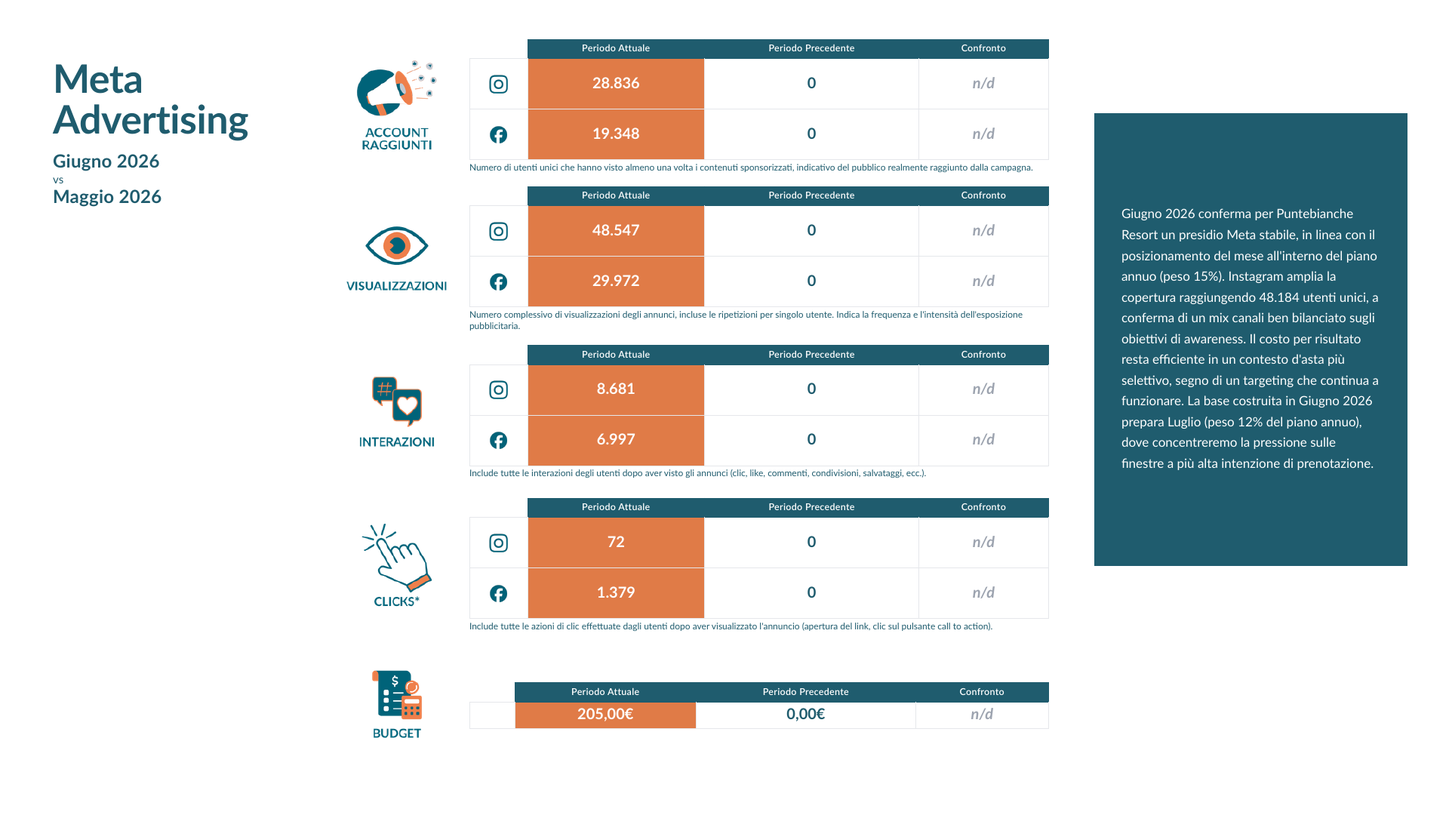
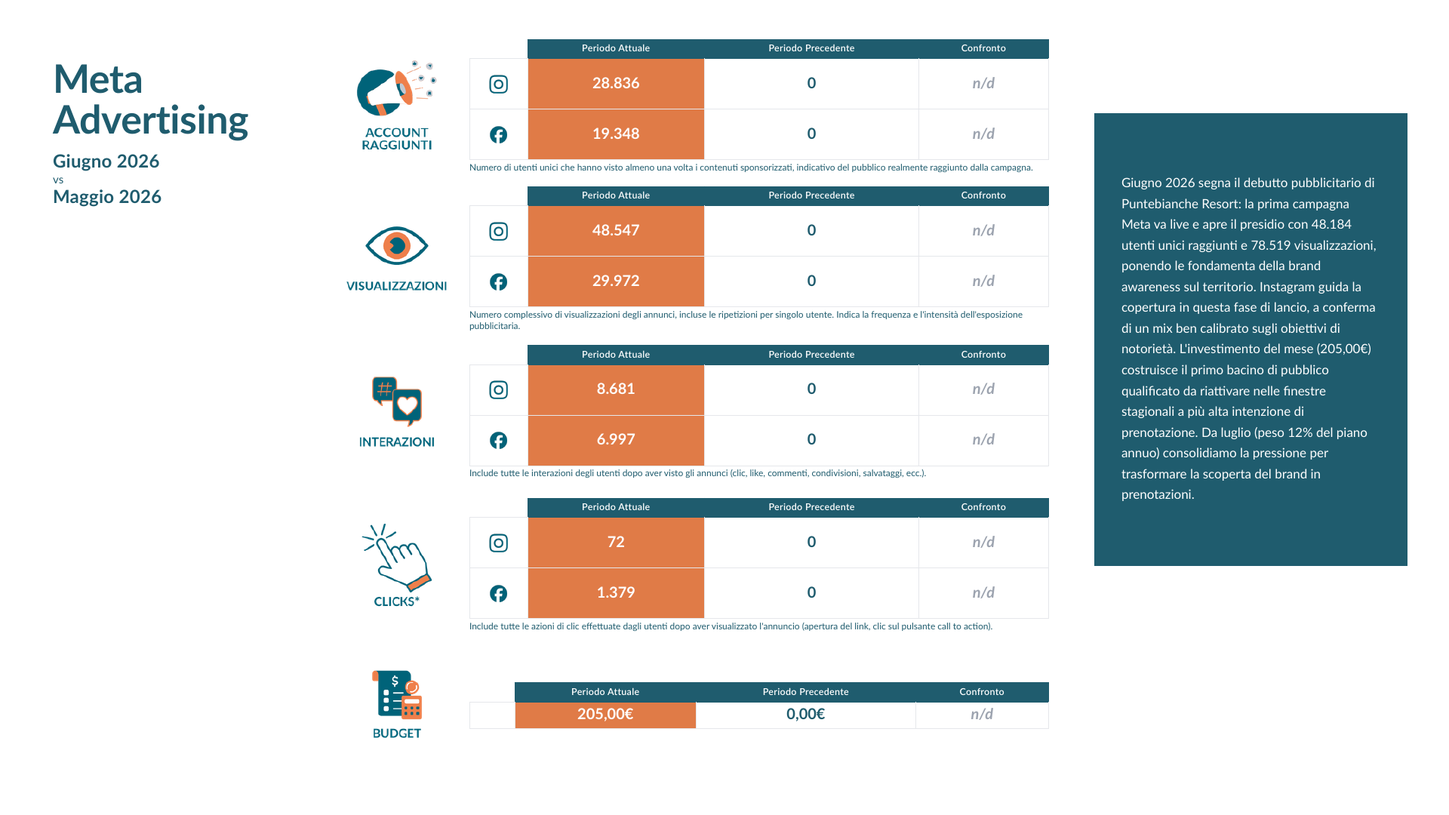
Report Giugno 2026 — pubblicazione automatica

Changed region(s): [[0.75, 0.2139, 0.9688, 0.6111]]

diff --git a/giugno-2026.html b/giugno-2026.html
@@ -379,7 +379,7 @@ table.budget-plan-table tr.total td { background: var(--bg-soft); font-weight: 7
 <script>
 const REPORT_YEAR = 2026;
 const REPORT_MONTH = 6;
-const GENERATED_AT = "2026-07-02 17:51 UTC";
+const GENERATED_AT = "2026-07-02 18:00 UTC";
 const DATA = {"target_period":"2026-06","meta_by_account":{"current":{"1201395876543423":{"facebook":{"reach":596174,"impressions":787153,"actions_page_engagement":467979,"clicks":6810,"spend":657.6882},"instagram":{"reach":60412,"impressions":70328,"actions_page_engagement":43495,"clicks":215,"spend":65.4518}},"911357333863123":{"facebook":{"reach":347030,"impressions":503134,"actions_page_engagement":232820,"clicks":3483,"spend":482.7},"instagram":{"reach":109296,"impressions":123309,"actions_page_engagement":53358,"clicks":164,"spend":117.76}},"821188209852436":{"facebook":{"reach":149150,"impressions":228551,"actions_page_engagement":110030,"clicks":3618,"spend":458.1456},"instagram":{"reach":141689,"impressions":229009,"actions_page_engagement":31775,"clicks":427,"spend":353.8344}},"1489903155429629":{"facebook":{"reach":196566,"impressions":233657,"actions_page_engagement":10693,"clicks":2866,"spend":426.0944},"instagram":{"reach":18821,"impressions":27674,"actions_page_engagement":2609,"clicks":29,"spend":172.0056}},"1432341844596179":{"facebook":{"reach":151332,"impressions":231359,"actions_page_engagement":92785,"clicks":2286,"spend":323.42},"instagram":{"reach":23531,"impressions":28251,"actions_page_engagement":14120,"clicks":98,"spend":44.55}},"1312718426033158":{"facebook":{"reach":246948,"impressions":398464,"actions_page_engagement":218773,"clicks":10736,"spend":350.8698},"instagram":{"reach":3877,"impressions":5215,"actions_page_engagement":3073,"clicks":15,"spend":6.7802}},"1353024533007038":{"facebook":{"reach":345413,"impressions":548199,"actions_page_engagement":273510,"clicks":10825,"spend":680.29},"instagram":{"reach":21193,"impressions":27033,"actions_page_engagement":15101,"clicks":105,"spend":41.71}},"1528485957725509":{"facebook":{"reach":439883,"impressions":784162,"actions_page_engagement":438731,"clicks":8613,"spend":886.5672},"instagram":{"reach":34032,"impressions":56279,"actions_page_engagement":13790,"clicks":85,"spend":143.2128}},"1372615496521110":{"facebook":{"reach":244467,"impressions":344927,"actions_page_engagement":176033,"clicks":5900,"spend":379.0672},"instagram":{"reach":123919,"impressions":157203,"actions_page_engagement":74183,"clicks":123,"spend":119.6128}},"30233607946222961":{"facebook":{"reach":1156208,"impressions":1716813,"actions_page_engagement":45997,"clicks":3727,"spend":296.49},"instagram":{"reach":566404,"impressions":895211,"actions_page_engagement":12555,"clicks":349,"spend":152.35}},"687349689221880":{"facebook":{"reach":211023,"impressions":354723,"actions_page_engagement":87054,"clicks":25336,"spend":816.2869},"instagram":{"reach":14276,"impressions":18761,"actions_page_engagement":1664,"clicks":305,"spend":54.5231}},"217115315497718":{"facebook":{"reach":205654,"impressions":332247,"actions_page_engagement":4337,"clicks":509,"spend":196.8056},"instagram":{"reach":116724,"impressions":252285,"actions_page_engagement":1540,"clicks":67,"spend":149.6242}},"752450855779035":{"facebook":{"reach":191022,"impressions":257721,"actions_page_engagement":120521,"clicks":4388,"spend":926.7978},"instagram":{"reach":38474,"impressions":47766,"actions_page_engagement":11953,"clicks":305,"spend":265.5622}},"1849759899186169":{"facebook":{"reach":183591,"impressions":293374,"actions_page_engagement":30390,"clicks":8045,"spend":713.8591},"instagram":{"reach":57252,"impressions":92719,"actions_page_engagement":13108,"clicks":130,"spend":407.5909}}},"prev_yoy":{"911357333863123":{"facebook":{"reach":118338,"impressions":260537,"actions_page_engagement":28122,"clicks":13473,"spend":247.7682},"instagram":{"reach":82232,"impressions":211875,"actions_page_engagement":48583,"clicks":649,"spend":220.3618}},"1432341844596179":{"facebook":{"reach":81727,"impressions":157724,"actions_page_engagement":27381,"clicks":7511,"spend":230.9096},"instagram":{"reach":9796,"impressions":13630,"actions_page_engagement":2648,"clicks":46,"spend":30.2704}},"821188209852436":{"facebook":{"reach":233281,"impressions":610051,"actions_page_engagement":122785,"clicks":15852,"spend":907.486},"instagram":{"reach":377705,"impressions":1008869,"actions_page_engagement":310387,"clicks":1059,"spend":900.404}},"1528485957725509":{"facebook":{"reach":76048,"impressions":271605,"actions_page_engagement":11079,"clicks":15787,"spend":442.2129},"instagram":{"reach":228401,"impressions":527060,"actions_page_engagement":111552,"clicks":421,"spend":498.1471}},"1312718426033158":{"facebook":{"reach":94682,"impressions":324350,"actions_page_engagement":44834,"clicks":4481,"spend":449.4413},"instagram":{"reach":192180,"impressions":408062,"actions_page_engagement":123661,"clicks":608,"spend":526.3287}},"1372615496521110":{"facebook":{"reach":194069,"impressions":338764,"actions_page_engagement":40517,"clicks":471,"spend":59.3378},"instagram":{"reach":173971,"impressions":320008,"actions_page_engagement":15448,"clicks":353,"spend":77.6602}},"687349689221880":{"facebook":{"reach":187812,"impressions":410585,"actions_page_engagement":210069,"clicks":16397,"spend":681.1515},"instagram":{"reach":291127,"impressions":720338,"actions_page_engagement":202005,"clicks":1215,"spend":832.6785}},"1201395876543423":{"facebook":{"reach":223633,"impressions":728348,"actions_page_engagement":18874,"clicks":15023,"spend":315.005},"instagram":{"reach":9281,"impressions":14469,"actions_page_engagement":329,"clicks":242,"spend":34.745}},"752450855779035":{"instagram":{"reach":9581,"impressions":17305,"actions_page_engagement":1377,"clicks":1122,"spend":59.69},"facebook":{"reach":0,"impressions":0,"actions_page_engagement":0,"clicks":0,"spend":0}}},"prev_mom":{"1432341844596179":{"facebook":{"reach":294016,"impressions":407870,"actions_page_engagement":201655,"clicks":2616,"spend":357.4907},"instagram":{"reach":26699,"impressions":29015,"actions_page_engagement":16868,"clicks":51,"spend":28.5293}},"217115315497718":{"facebook":{"reach":8431,"impressions":10647,"actions_page_engagement":610,"clicks":393,"spend":26.89},"instagram":{"reach":5589,"impressions":6674,"actions_page_engagement":417,"clicks":257,"spend":25.69}},"1528485957725509":{"facebook":{"reach":448903,"impressions":827800,"actions_page_engagement":502747,"clicks":12716,"spend":1075.4098},"instagram":{"reach":4204,"impressions":5562,"actions_page_engagement":3489,"clicks":12,"spend":7.8002}},"911357333863123":{"facebook":{"reach":255044,"impressions":357685,"actions_page_engagement":155464,"clicks":1985,"spend":424.7196},"instagram":{"reach":69899,"impressions":80181,"actions_page_engagement":40783,"clicks":105,"spend":100.9004}},"30233607946222961":{"facebook":{"reach":771717,"impressions":1035334,"actions_page_engagement":48820,"clicks":1725,"spend":167.5764},"instagram":{"reach":878324,"impressions":1600190,"actions_page_engagement":45585,"clicks":851,"spend":258.8036}},"687349689221880":{"facebook":{"reach":225398,"impressions":381192,"actions_page_engagement":96028,"clicks":34594,"spend":846.4271},"instagram":{"reach":17335,"impressions":24772,"actions_page_engagement":3436,"clicks":294,"spend":90.6229}},"821188209852436":{"facebook":{"reach":210530,"impressions":403566,"actions_page_engagement":156340,"clicks":7928,"spend":593.5404},"instagram":{"reach":215265,"impressions":421738,"actions_page_engagement":65250,"clicks":1001,"spend":647.1396}},"1312718426033158":{"facebook":{"reach":244951,"impressions":422231,"actions_page_engagement":227377,"clicks":8895,"spend":367.0803},"instagram":{"reach":2707,"impressions":3414,"actions_page_engagement":1778,"clicks":20,"spend":5.5697}},"1201395876543423":{"facebook":{"reach":909562,"impressions":1425823,"actions_page_engagement":876905,"clicks":11854,"spend":1154.789},"instagram":{"reach":26937,"impressions":34782,"actions_page_engagement":22109,"clicks":93,"spend":28.321}},"1372615496521110":{"facebook":{"reach":498848,"impressions":931520,"actions_page_engagement":540739,"clicks":5858,"spend":445.8017},"instagram":{"reach":155726,"impressions":240896,"actions_page_engagement":132893,"clicks":309,"spend":108.2383}},"1489903155429629":{"facebook":{"reach":93188,"impressions":131728,"actions_page_engagement":13723,"clicks":4626,"spend":410.9767},"instagram":{"reach":36108,"impressions":50873,"actions_page_engagement":4291,"clicks":68,"spend":207.0433}},"1353024533007038":{"facebook":{"reach":379102,"impressions":701105,"actions_page_engagement":270626,"clicks":14381,"spend":810.629},"instagram":{"reach":21193,"impressions":28879,"actions_page_engagement":13861,"clicks":136,"spend":42.191}},"752450855779035":{"facebook":{"reach":78825,"impressions":124848,"actions_page_engagement":7034,"clicks":6248,"spend":368.0082},"instagram":{"reach":24257,"impressions":41855,"actions_page_engagement":4583,"clicks":440,"spend":253.2719}},"1849759899186169":{"facebook":{"reach":125375,"impressions":267942,"actions_page_engagement":54476,"clicks":9523,"spend":730.0553},"instagram":{"reach":114519,"impressions":233497,"actions_page_engagement":26486,"clicks":129,"spend":810.9447}}}},"meta_filtered":{"Accentodì":{"current":{"facebook":{"reach":152635,"impressions":231622,"actions_page_engagement":125522,"clicks":7126,"spend":201.71},"instagram":{"reach":3907,"impressions":5215,"actions_page_engagement":3073,"clicks":15,"spend":6.78}},"prev_yoy":{"facebook":{"reach":56237,"impressions":230876,"actions_page_engagement":22473,"clicks":2576,"spend":293.0095},"instagram":{"reach":108256,"impressions":236622,"actions_page_engagement":51348,"clicks":370,"spend":384.3805}},"prev_mom":{"facebook":{"reach":138459,"impressions":242191,"actions_page_engagement":136013,"clicks":6540,"spend":211.89},"instagram":{"reach":2711,"impressions":3414,"actions_page_engagement":1778,"clicks":20,"spend":5.57}}},"Adèsso":{"current":{"facebook":{"reach":107256,"impressions":166842,"actions_page_engagement":93251,"clicks":3610,"spend":149.16},"instagram":{"reach":0,"impressions":0,"actions_page_engagement":0,"clicks":0,"spend":0}},"prev_yoy":{"facebook":{"reach":38840,"impressions":93442,"actions_page_engagement":22361,"clicks":1905,"spend":156.3958},"instagram":{"reach":95286,"impressions":171472,"actions_page_engagement":72313,"clicks":238,"spend":141.9842}},"prev_mom":{"facebook":{"reach":122142,"impressions":180040,"actions_page_engagement":91364,"clicks":2355,"spend":155.19},"instagram":{"reach":0,"impressions":0,"actions_page_engagement":0,"clicks":0,"spend":0}}},"Hannah":{"current":{"facebook":{"reach":425387,"impressions":754191,"actions_page_engagement":431738,"clicks":7234,"spend":813.6697},"instagram":{"reach":6082,"impressions":7733,"actions_page_engagement":5109,"clicks":13,"spend":11.1103}},"prev_yoy":{"facebook":{"reach":75269,"impressions":271622,"actions_page_engagement":11079,"clicks":15787,"spend":442.2403},"instagram":{"reach":227978,"impressions":527043,"actions_page_engagement":111552,"clicks":421,"spend":498.1197}},"prev_mom":{"facebook":{"reach":391579,"impressions":728264,"actions_page_engagement":450875,"clicks":11667,"spend":926.4098},"instagram":{"reach":3142,"impressions":4364,"actions_page_engagement":2835,"clicks":10,"spend":5.7402}}},"Hannah Terraces":{"current":{"facebook":{"reach":0,"impressions":0,"actions_page_engagement":0,"clicks":0,"spend":0},"instagram":{"reach":0,"impressions":0,"actions_page_engagement":0,"clicks":0,"spend":0}},"prev_yoy":{"facebook":{"reach":0,"impressions":0,"actions_page_engagement":0,"clicks":0,"spend":0},"instagram":{"reach":0,"impressions":0,"actions_page_engagement":0,"clicks":0,"spend":0}},"prev_mom":{"facebook":{"reach":71877,"impressions":99536,"actions_page_engagement":51872,"clicks":1049,"spend":149},"instagram":{"reach":1091,"impressions":1198,"actions_page_engagement":654,"clicks":2,"spend":2.06}}},"Marcella Royal":{"current":{"facebook":{"reach":98140,"impressions":146017,"actions_page_engagement":86483,"clicks":1727,"spend":349.51},"instagram":{"reach":1029,"impressions":1143,"actions_page_engagement":492,"clicks":2,"spend":2.28}},"prev_yoy":{"facebook":{"reach":133825,"impressions":288624,"actions_page_engagement":116112,"clicks":4150,"spend":380.5767},"instagram":{"reach":158827,"impressions":460745,"actions_page_engagement":166266,"clicks":376,"spend":390.6533}},"prev_mom":{"facebook":{"reach":152556,"impressions":289435,"actions_page_engagement":153165,"clicks":2779,"spend":459.3752},"instagram":{"reach":81528,"impressions":122089,"actions_page_engagement":53836,"clicks":345,"spend":162.2348}}},"Terrazza Flavia":{"current":{"facebook":{"reach":53527,"impressions":82533,"actions_page_engagement":23547,"clicks":1891,"spend":108.6324},"instagram":{"reach":140853,"impressions":227867,"actions_page_engagement":31283,"clicks":425,"spend":351.5576}},"prev_yoy":{"facebook":{"reach":100227,"impressions":321441,"actions_page_engagement":6673,"clicks":11702,"spend":527.0076},"instagram":{"reach":233340,"impressions":548110,"actions_page_engagement":144121,"clicks":683,"spend":509.6524}},"prev_mom":{"facebook":{"reach":59155,"impressions":114132,"actions_page_engagement":3175,"clicks":5149,"spend":134.16},"instagram":{"reach":128674,"impressions":299648,"actions_page_engagement":11414,"clicks":656,"spend":484.91}}},"Puntebianche Resort":{"current":{"facebook":{"reach":19348,"impressions":29972,"actions_page_engagement":6997,"clicks":1379,"spend":72.9},"instagram":{"reach":28836,"impressions":48547,"actions_page_engagement":8681,"clicks":72,"spend":132.1}},"prev_yoy":{"facebook":{"reach":0,"impressions":0,"actions_page_engagement":0,"clicks":0,"spend":0},"instagram":{"reach":0,"impressions":0,"actions_page_engagement":0,"clicks":0,"spend":0}},"prev_mom":{"facebook":{"reach":0,"impressions":0,"actions_page_engagement":0,"clicks":0,"spend":0},"instagram":{"reach":0,"impressions":0,"actions_page_engagement":0,"clicks":0,"spend":0}}}},"tiktok":{"current":{"7612666695502118929":{"clicks":0,"engagements":10443,"impressions":4586134,"reach":848475,"spend":600.8},"7499093699838607377":{"clicks":1214,"engagements":2838,"impressions":730028,"reach":447350,"spend":105.03},"7626418949391351815":{"clicks":0,"engagements":8615,"impressions":2829659,"reach":659014,"spend":600.07},"7498679494010667009":{"clicks":2214,"engagements":4616,"impressions":1982803,"reach":610342,"spend":600.04},"7498330316248203280":{"clicks":3954,"engagements":9058,"impressions":3116869,"reach":1169809,"spend":900.07},"7504967007843319824":{"clicks":2151,"engagements":4359,"impressions":1946646,"reach":535987,"spend":600.04}},"prev_mom":{"7498679494010667009":{"clicks":2081,"engagements":4173,"impressions":1947794,"reach":568310,"spend":619.93},"7626418949391351815":{"clicks":0,"engagements":2677,"impressions":968327,"reach":255441,"spend":260.02},"7498330316248203280":{"clicks":3331,"engagements":7364,"impressions":3238252,"reach":1194060,"spend":929.86},"7504967007843319824":{"clicks":2031,"engagements":4012,"impressions":1929476,"reach":524393,"spend":619.92},"7612666695502118929":{"clicks":0,"engagements":9025,"impressions":4174843,"reach":855480,"spend":532.93},"7499093699838607377":{"clicks":4650,"engagements":11167,"impressions":2789932,"reach":930092,"spend":503.5}},"prev_yoy":{"7498679494010667009":{"clicks":480,"engagements":872,"impressions":784457,"reach":283067,"spend":260.13},"7499093699838607377":{"clicks":2379,"engagements":3584,"impressions":1479197,"reach":376892,"spend":1119.38},"7504967007843319824":{"clicks":1124,"engagements":2052,"impressions":1942078,"reach":468387,"spend":600.15},"7498330316248203280":{"clicks":1186,"engagements":1644,"impressions":1748693,"reach":524070,"spend":600.1}}},"ytd_spend":{"months":[1,2,3,4,5,6],"by_client":{"Accentodì":{"1":{"meta":216.46,"tiktok":0},"2":{"meta":195.9,"tiktok":0},"3":{"meta":218.49,"tiktok":0},"4":{"meta":208.32,"tiktok":0},"5":{"meta":217.46,"tiktok":0},"6":{"meta":208.49,"tiktok":0}},"Adèsso":{"1":{"meta":240.53,"tiktok":0},"2":{"meta":279.9,"tiktok":0},"3":{"meta":186.42,"tiktok":0},"4":{"meta":148.75,"tiktok":0},"5":{"meta":155.19,"tiktok":0},"6":{"meta":149.16,"tiktok":0}},"Altafiumara":{"1":{"meta":426.24,"tiktok":0},"2":{"meta":192.84,"tiktok":0},"3":{"meta":350.94,"tiktok":0},"4":{"meta":829.53,"tiktok":0},"5":{"meta":1183.11,"tiktok":0},"6":{"meta":723.14,"tiktok":0}},"Castello":{"1":{"meta":420.91,"tiktok":0},"2":{"meta":192.84,"tiktok":0},"3":{"meta":931.12,"tiktok":0},"4":{"meta":686.78,"tiktok":0},"5":{"meta":618.02,"tiktok":0},"6":{"meta":598.1,"tiktok":0}},"Della Piana":{"1":{"meta":181.68,"tiktok":0.0},"2":{"meta":279.92,"tiktok":0.0},"3":{"meta":310.23,"tiktok":0.0},"4":{"meta":97.43,"tiktok":480.08},"5":{"meta":525.62,"tiktok":619.92},"6":{"meta":600.46,"tiktok":600.04}},"Hannah":{"1":{"meta":309.93,"tiktok":0},"2":{"meta":361.67,"tiktok":0},"3":{"meta":404.14,"tiktok":0},"4":{"meta":743.07,"tiktok":0},"5":{"meta":932.15,"tiktok":0},"6":{"meta":824.78,"tiktok":0}},"Hannah Terraces":{"1":{"meta":207.19,"tiktok":0},"2":{"meta":223.76,"tiktok":0},"3":{"meta":248.72,"tiktok":0},"4":{"meta":493.19,"tiktok":0},"5":{"meta":151.06,"tiktok":0},"6":{"meta":0,"tiktok":0}},"Hemanaire":{"1":{"meta":0.0,"tiktok":0},"2":{"meta":0.0,"tiktok":0},"3":{"meta":483.97,"tiktok":0},"4":{"meta":2100.6,"tiktok":0},"5":{"meta":126.58,"tiktok":0},"6":{"meta":353.2,"tiktok":0}},"Livata":{"1":{"meta":0.0,"tiktok":0},"2":{"meta":0.0,"tiktok":0},"3":{"meta":0.0,"tiktok":0},"4":{"meta":0.0,"tiktok":0},"5":{"meta":0.0,"tiktok":0},"6":{"meta":0.0,"tiktok":0}},"Lunetta":{"1":{"meta":278.92,"tiktok":0},"2":{"meta":250.64,"tiktok":0.0},"3":{"meta":1042.55,"tiktok":0.0},"4":{"meta":761.18,"tiktok":690.19},"5":{"meta":937.05,"tiktok":929.86},"6":{"meta":870.81,"tiktok":900.07}},"Magari Estates":{"1":{"meta":470.44,"tiktok":0},"2":{"meta":362.75,"tiktok":0},"3":{"meta":449.43,"tiktok":0},"4":{"meta":574.53,"tiktok":0},"5":{"meta":554.04,"tiktok":0},"6":{"meta":498.68,"tiktok":0}},"Marcella Royal":{"1":{"meta":208.24,"tiktok":0.0},"2":{"meta":0,"tiktok":0.0},"3":{"meta":310.64,"tiktok":0.0},"4":{"meta":530.09,"tiktok":161.37},"5":{"meta":621.61,"tiktok":503.5},"6":{"meta":351.79,"tiktok":105.03}},"Mare":{"1":{"meta":680.58,"tiktok":619.89},"2":{"meta":615.71,"tiktok":560},"3":{"meta":683.29,"tiktok":620.12},"4":{"meta":612.88,"tiktok":599.96},"5":{"meta":386.02,"tiktok":619.93},"6":{"meta":367.97,"tiktok":600.04}},"Montemagno":{"1":{"meta":121.5,"tiktok":0},"2":{"meta":114.96,"tiktok":0},"3":{"meta":230.01,"tiktok":0},"4":{"meta":166.5,"tiktok":0},"5":{"meta":621.52,"tiktok":0},"6":{"meta":1192.38,"tiktok":0}},"Terrazza Flavia":{"1":{"meta":212.79,"tiktok":0},"2":{"meta":0,"tiktok":0},"3":{"meta":496.28,"tiktok":0},"4":{"meta":568.65,"tiktok":0},"5":{"meta":619.07,"tiktok":0},"6":{"meta":460.19,"tiktok":0}},"Villa Ermellina":{"1":{"meta":708.67,"tiktok":0.0},"2":{"meta":825.46,"tiktok":0.0},"3":{"meta":1148.28,"tiktok":0.0},"4":{"meta":653.12,"tiktok":410.47},"5":{"meta":426.38,"tiktok":532.93},"6":{"meta":448.84,"tiktok":600.8}},"Villa Giada":{"1":{"meta":0.0,"tiktok":0.0},"2":{"meta":0.0,"tiktok":0.0},"3":{"meta":568.84,"tiktok":0.0},"4":{"meta":1275.78,"tiktok":0.0},"5":{"meta":1541,"tiktok":260.02},"6":{"meta":1121.45,"tiktok":600.07}},"Villa Miliani":{"1":{"meta":860.18,"tiktok":0},"2":{"meta":699.83,"tiktok":0},"3":{"meta":891.93,"tiktok":0},"4":{"meta":883.89,"tiktok":0},"5":{"meta":852.83,"tiktok":0},"6":{"meta":722.01,"tiktok":0}},"Puntebianche Resort":{"1":{"meta":0.0,"tiktok":0},"2":{"meta":0.0,"tiktok":0},"3":{"meta":0.0,"tiktok":0},"4":{"meta":0.0,"tiktok":0},"5":{"meta":0.0,"tiktok":0},"6":{"meta":205.0,"tiktok":0}}}},"reach_estimated_clients":[]};
 const CLIENTS = [{"nome":"Accentodì","meta_id":"1312718426033158","filter":["Accentodì"],"excl":[],"tk_id":null,"cm":"YoY","ct":null,"budget":2400,"note":"Cadenza TRIMESTRALE (incluso per consultazione)"},{"nome":"Adèsso","meta_id":"1312718426033158","filter":["Adèsso","MICE"],"excl":[],"tk_id":null,"cm":"YoY","ct":null,"budget":2400,"note":"Cadenza TRIMESTRALE (incluso per consultazione)"},{"nome":"Altafiumara","meta_id":"1201395876543423","filter":null,"excl":[],"tk_id":null,"cm":"MoM","ct":null,"budget":23000,"note":""},{"nome":"Castello","meta_id":"1489903155429629","filter":null,"excl":[],"tk_id":null,"cm":"MoM","ct":null,"budget":14400,"note":""},{"nome":"Della Piana","meta_id":"911357333863123","filter":null,"excl":[],"tk_id":"7504967007843319824","cm":"YoY","ct":"MoM","budget":14000,"note":"Split confronto: Meta YoY, TikTok MoM"},{"nome":"Hannah","meta_id":"1528485957725509","filter":["Hannah"],"excl":["Terraces"],"tk_id":null,"cm":"YoY","ct":null,"budget":9000,"note":""},{"nome":"Hannah Terraces","meta_id":"1528485957725509","filter":["Terraces"],"excl":[],"tk_id":null,"cm":"MoM","ct":null,"budget":7200,"note":""},{"nome":"Hemanaire","meta_id":"217115315497718","filter":null,"excl":[],"tk_id":null,"cm":"MoM","ct":null,"budget":15000,"note":"TikTok verrà attivato più avanti"},{"nome":"Livata","meta_id":"4666471140299701","filter":null,"excl":[],"tk_id":null,"cm":"MoM","ct":null,"budget":15000,"note":""},{"nome":"Lunetta","meta_id":"687349689221880","filter":null,"excl":[],"tk_id":"7498330316248203280","cm":"YoY","ct":"MoM","budget":18000,"note":"Split confronto: Meta YoY, TikTok MoM"},{"nome":"Magari Estates","meta_id":"1372615496521110","filter":null,"excl":[],"tk_id":null,"cm":"MoM","ct":null,"budget":24600,"note":""},{"nome":"Marcella Royal","meta_id":"821188209852436","filter":["Marcella"],"excl":[],"tk_id":"7499093699838607377","cm":"YoY","ct":"MoM","budget":14400,"note":"Split confronto: Meta YoY, TikTok MoM"},{"nome":"Mare","meta_id":"1432341844596179","filter":null,"excl":[],"tk_id":"7498679494010667009","cm":"MoM","ct":"MoM","budget":15000,"note":""},{"nome":"Montemagno","meta_id":"752450855779035","filter":null,"excl":[],"tk_id":null,"cm":"MoM","ct":null,"budget":0,"note":"Aggiunto 25/04/2026 — budget annuo da definire"},{"nome":"Puntebianche Resort","meta_id":"1528485957725509","filter":["Puntebianche"],"excl":[],"tk_id":null,"cm":"MoM","ct":null,"budget":0,"note":"Aggiunto 02/07/2026 — campagne Puntebianche - AON su account condiviso Hannah Hotels Collection"},{"nome":"Terrazza Flavia","meta_id":"821188209852436","filter":["Terrazza"],"excl":[],"tk_id":null,"cm":"YoY","ct":null,"budget":7500,"note":""},{"nome":"Villa Ermellina","meta_id":"30233607946222961","filter":null,"excl":[],"tk_id":"7612666695502118929","cm":"MoM","ct":"MoM","budget":16400,"note":""},{"nome":"Villa Giada","meta_id":"1849759899186169","filter":null,"excl":[],"tk_id":null,"cm":"MoM","ct":null,"budget":21600,"note":"TikTok presente ma non attivo"},{"nome":"Villa Miliani","meta_id":"1353024533007038","filter":null,"excl":[],"tk_id":null,"cm":"MoM","ct":null,"budget":6600,"note":""}];
 const MONTH_IT = {"1": "gennaio", "2": "febbraio", "3": "marzo", "4": "aprile", "5": "maggio", "6": "giugno", "7": "luglio", "8": "agosto", "9": "settembre", "10": "ottobre", "11": "novembre", "12": "dicembre"};
@@ -546,6 +546,18 @@ function buildRational(cd){
     const p1 = `${monthCap} rappresenta una pausa strategica per ${client.nome}, coerente con il calendario annuo del piano media.`;
     const p2 = `Il budget residuo resta integro e pronto a concentrarsi sulle finestre stagionali a più alto ritorno previste nei mesi successivi.`;
     const p3 = `Da ${nextMonthLow} (peso ${nextWeight}% del piano annuo) il presidio riprende ${nextWeight >= 12 ? "nel cuore della stagione, con la pressione necessaria a intercettare la domanda attiva di prenotazione" : "in modo progressivo, pronto a salire sulle finestre più strategiche"}.`;
+    return `<p>${p1}</p><p>${p2}</p><p>${p3}</p>`;
+  }
+
+  // === Caso speciale: primo mese live (debutto ads Meta) ===
+  const imprCurMeta = (metaCur.facebook.impressions || 0) + (metaCur.instagram.impressions || 0);
+  const imprPrevMeta = (metaPrev.facebook.impressions || 0) + (metaPrev.instagram.impressions || 0);
+  const metaLaunched = spendCur > 0 && spendPrev === 0 && imprPrevMeta === 0;
+  if (metaLaunched) {
+    const driverM = fbReachCur >= igReachCur ? "Facebook" : "Instagram";
+    const p1 = `${monthCap} segna il debutto pubblicitario di ${client.nome}: la prima campagna Meta va live e apre il presidio con ${fmtInt(reachCurMeta)} utenti unici raggiunti e ${fmtInt(imprCurMeta)} visualizzazioni, ponendo le fondamenta della brand awareness sul territorio.`;
+    const p2 = `${driverM} guida la copertura in questa fase di lancio, a conferma di un mix ben calibrato sugli obiettivi di notorietà. L'investimento del mese (${fmtEur(spendCur)}) costruisce il primo bacino di pubblico qualificato da riattivare nelle finestre stagionali a più alta intenzione di prenotazione.`;
+    const p3 = `Da ${nextMonthLow} (peso ${nextWeight}% del piano annuo) consolidiamo la pressione per trasformare la scoperta del brand in prenotazioni.`;
     return `<p>${p1}</p><p>${p2}</p><p>${p3}</p>`;
   }
 

diff --git a/_scripts/build_tables.py b/_scripts/build_tables.py
@@ -169,6 +169,12 @@ def build_view(client_name, data, year, month):
         for plat in ("facebook","instagram"):
             if not d.get(plat): d[plat] = empty_meta()
 
+    # Meta "primo mese live": spesa corrente >0 ma periodo di confronto a zero (nessuno storico)
+    _mcs = sum((meta_cur.get(p, {}).get("spend") or 0) for p in ("facebook", "instagram"))
+    _mps = sum((meta_prev.get(p, {}).get("spend") or 0) for p in ("facebook", "instagram"))
+    _mpi = sum((meta_prev.get(p, {}).get("impressions") or 0) for p in ("facebook", "instagram"))
+    meta_launched = (_mcs > 0) and (_mps == 0) and (_mpi == 0)
+
     has_tk = bool(cfg["tk_id"])
     tk_cur = tk_prev = None; tk_launched = False
     if has_tk:
@@ -184,7 +190,7 @@ def build_view(client_name, data, year, month):
 
     return {
         "client_name": client_name, "cfg": cfg, "year": year, "month": month,
-        "has_tk": has_tk, "tk_launched": tk_launched,
+        "has_tk": has_tk, "tk_launched": tk_launched, "meta_launched": meta_launched,
         "meta_cur": meta_cur, "meta_prev": meta_prev,
         "tk_cur": tk_cur, "tk_prev": tk_prev,
         "ytd_months": ytd_months, "ytd_client": ytd_client,
@@ -388,6 +394,18 @@ def build_rational(v, focus):
                  f"stagionali a più alto ritorno verso {next_cap}.")
         return f"<p>{s}</p>"
 
+    # META — primo mese live (debutto ads)
+    if v.get("meta_launched"):
+        impr_meta = (fb_c.get("impressions") or 0) + (ig_c.get("impressions") or 0)
+        s = (f"{month_cap} {year} segna il debutto pubblicitario di {cn}: la prima campagna Meta va live e apre il "
+             f"presidio con {fmt_int(reach_meta)} utenti unici raggiunti e {fmt_int(impr_meta)} visualizzazioni, "
+             f"ponendo le fondamenta della brand awareness sul territorio. {driver} guida la copertura in questa fase "
+             f"di lancio, a conferma di un mix ben calibrato sugli obiettivi di notorietà. L'investimento del mese "
+             f"({fmt_eur(spend_cur)}) costruisce il primo bacino di pubblico qualificato da riattivare nelle finestre "
+             f"stagionali a più alta intenzione di prenotazione. Da {next_low} (peso {next_w}% del piano annuo) "
+             f"consolidiamo la pressione per trasformare la scoperta del brand in prenotazioni.")
+        return f"<p>{s}</p>"
+
     # META — pausa strategica
     if spend_cur == 0 and reach_meta == 0:
         s = (f"{month_cap} {year} rappresenta una pausa strategica per {cn}, coerente con il posizionamento del "
@@ -470,6 +488,16 @@ def build_rational_en(v, focus):
         else:
             s = (f"{mo} {year} sees TikTok on standby for {cn}: pressure stays focused on the main channels, while the "
                  f"dedicated budget remains intact and ready to reactivate on the higher-return seasonal windows toward {next_mo}.")
+        return f"<p>{s}</p>"
+
+    if v.get("meta_launched"):
+        impr_meta = (fb_c.get("impressions") or 0) + (ig_c.get("impressions") or 0)
+        s = (f"{mo} {year} marks the advertising debut of {cn}: the first Meta campaign goes live, opening presence with "
+             f"{fmt_int(reach_meta)} unique users reached and {fmt_int(impr_meta)} impressions, laying the foundations of "
+             f"brand awareness. {driver} leads coverage in this launch phase, confirming a well-balanced mix focused on "
+             f"awareness goals. This month's investment ({fmt_eur(spend_cur)}) builds the first pool of qualified audience "
+             f"to reactivate in the higher-intent seasonal booking windows. From {next_mo} ({next_w}% of the annual plan) "
+             f"we consolidate pressure to turn brand discovery into bookings.")
         return f"<p>{s}</p>"
 
     if spend_cur == 0 and reach_meta == 0:

diff --git a/_scripts/build_static.py b/_scripts/build_static.py
@@ -668,6 +668,18 @@ function buildRational(cd){
     return `<p>${p1}</p><p>${p2}</p><p>${p3}</p>`;
   }
 
+  // === Caso speciale: primo mese live (debutto ads Meta) ===
+  const imprCurMeta = (metaCur.facebook.impressions || 0) + (metaCur.instagram.impressions || 0);
+  const imprPrevMeta = (metaPrev.facebook.impressions || 0) + (metaPrev.instagram.impressions || 0);
+  const metaLaunched = spendCur > 0 && spendPrev === 0 && imprPrevMeta === 0;
+  if (metaLaunched) {
+    const driverM = fbReachCur >= igReachCur ? "Facebook" : "Instagram";
+    const p1 = `${monthCap} segna il debutto pubblicitario di ${client.nome}: la prima campagna Meta va live e apre il presidio con ${fmtInt(reachCurMeta)} utenti unici raggiunti e ${fmtInt(imprCurMeta)} visualizzazioni, ponendo le fondamenta della brand awareness sul territorio.`;
+    const p2 = `${driverM} guida la copertura in questa fase di lancio, a conferma di un mix ben calibrato sugli obiettivi di notorietà. L'investimento del mese (${fmtEur(spendCur)}) costruisce il primo bacino di pubblico qualificato da riattivare nelle finestre stagionali a più alta intenzione di prenotazione.`;
+    const p3 = `Da ${nextMonthLow} (peso ${nextWeight}% del piano annuo) consolidiamo la pressione per trasformare la scoperta del brand in prenotazioni.`;
+    return `<p>${p1}</p><p>${p2}</p><p>${p3}</p>`;
+  }
+
   // === Paragrafo 1: cos'è successo (lead con la storia più forte) ===
   let p1, p1Kind;
   if (tkLaunched && tkCur && (tkCur.impressions || 0) > 0) {
